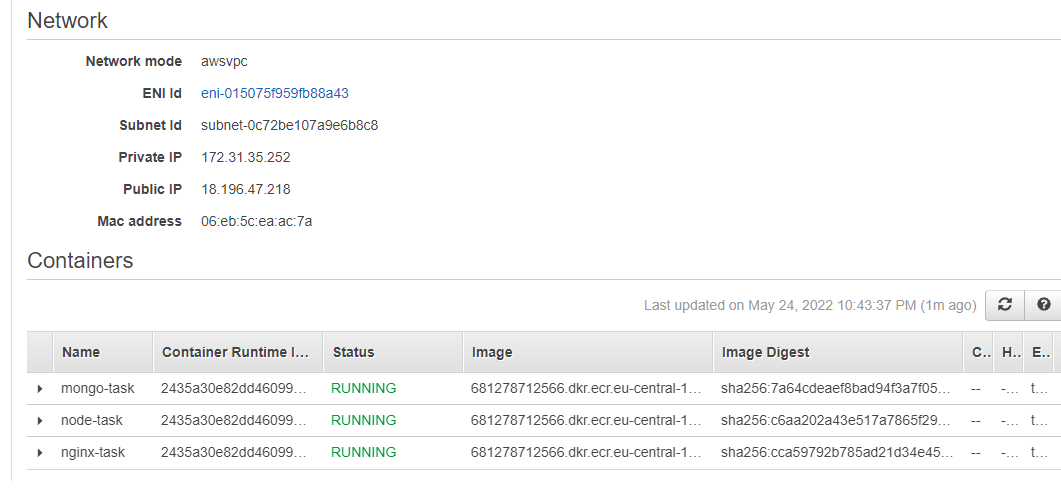
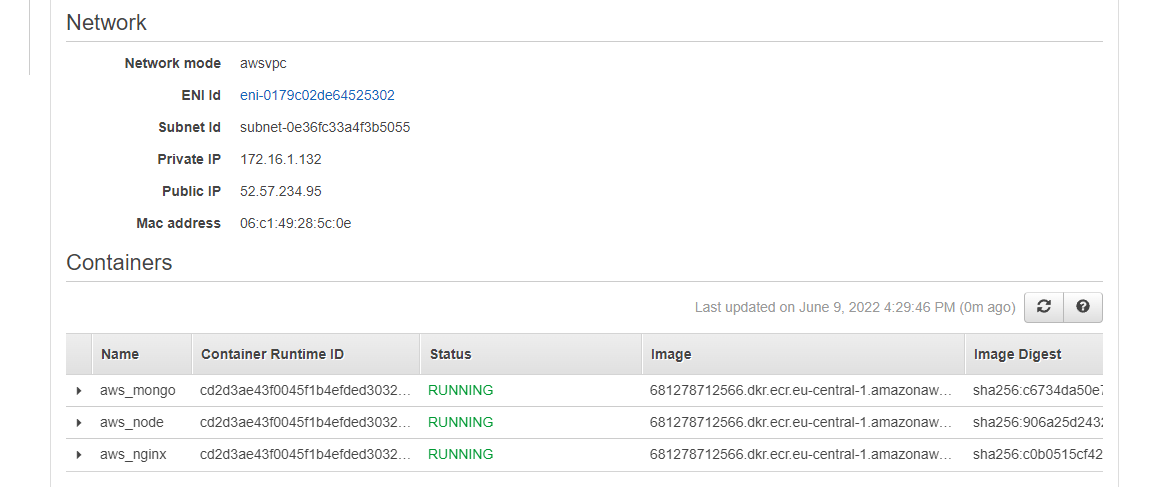
chore/docs update

diff --git a/Readme.md b/Readme.md
@@ -22,27 +22,22 @@ Also AWS CLI installed
 #### AWS and docker provider configuration with credentials 
 
 ![](screenshots/provider.png)
-> aws_caller_identity and aws_ecr_authorization_token are data sources that automatically
+> `aws_caller_identity` and `aws_ecr_authorization_token` are data sources that automatically
 exports credentials for an ECR
 
 <br/>
 
-Defined variable of repositories as list and used the `for_each` meta-argument and `toset` function
-to declare multiple similar resources
-
-![](screenshots/vars.png)
+**ECR resources**
 
 ![](screenshots/ecr.png)
+> For using repos as data source, the resources should be removed from state before switching
 
->After repos had been created, removed repo state from terraform, so it'd not be destroyed
-when switching it to a data source
-
-#### Created repositories: 
+#### Created repositories:
 
 ![](screenshots/repos.png)
 
-<br/> 
-  
+<br/>
+
 **While building images, faced issue below and couldn't fix it.**
 
 ![](screenshots/issue.png)
@@ -52,8 +47,8 @@ https://github.com/kreuzwerker/terraform-provider-docker/issues/293
 
 <br/>
   
-Thus i resorted to traditional method: built images using docker-compose,
-tagged and push with docker cli commands
+Thus i resorted to traditional method: built images using `docker-compose`,
+tagged and push with `docker cli` commands
 
 ![](screenshots/tags.png)
 ![](screenshots/aws_nginx.png)
@@ -68,42 +63,33 @@ tagged and push with docker cli commands
 <summary>Elastic Container Service</summary>
 <br/>
 
-**Having second service i'd like to separate infra as follows:**
+**Adding this second service, i separated infra as follows:**
 
 ![](screenshots/struct.png)
 > So it consists of ECR and ECS modules with its own independent state  
-and aws-base-module that represents abstraction.
+and aws-base-module that represents abstraction
 
 ECS module is too way contentful, so:
-https://github.com/tsiotska/CloudTech-studying/blob/aws/terraform-aws/ecs-module/main.tf
+https://github.com/tsiotska/CloudTech-studying/tree/develop/terraform-aws/ecs-module
 
 **For ECS there have been created next resources:**
 * aws_iam_role (policy_arn: AmazonECSTaskExecutionRolePolicy)
 * aws_ecs_cluster
 * aws_ecs_service with load_balancer and network_configuration 
 * aws_security_group for service network and load balancer
-* single aws_ecs_task_definition with containers definitions referencing mongo, node, nginx images
-* aws_default_vpc and aws_default_subnet
+* aws_ecs_task_definition with containers definitions using mongo, node, nginx images from ecr
+* aws_vpc with private and public aws_subnet
+* private subnet with internet connectivity through nat gateway
 
 <br/>
 
-**Referencing by the DNS name it throws 503 error, 
-as my nginx expects to work with ssl certificate 
-and database requires initialization and output place specified, which is not done for now**
-
-**But there are previously described successes:**
+****
 <br/>
 
-![](screenshots/service.png)
-***
-![](screenshots/task.png)
+**Running app (no bought dns name and https provided):**
+
+![](screenshots/dns_accessed.png)
 ***
 ![](screenshots/containers.png)
-***
-![](screenshots/lb.png)
-***
-![](screenshots/group.png)
-***
-![](screenshots/vpc.png)
 
 </details>
